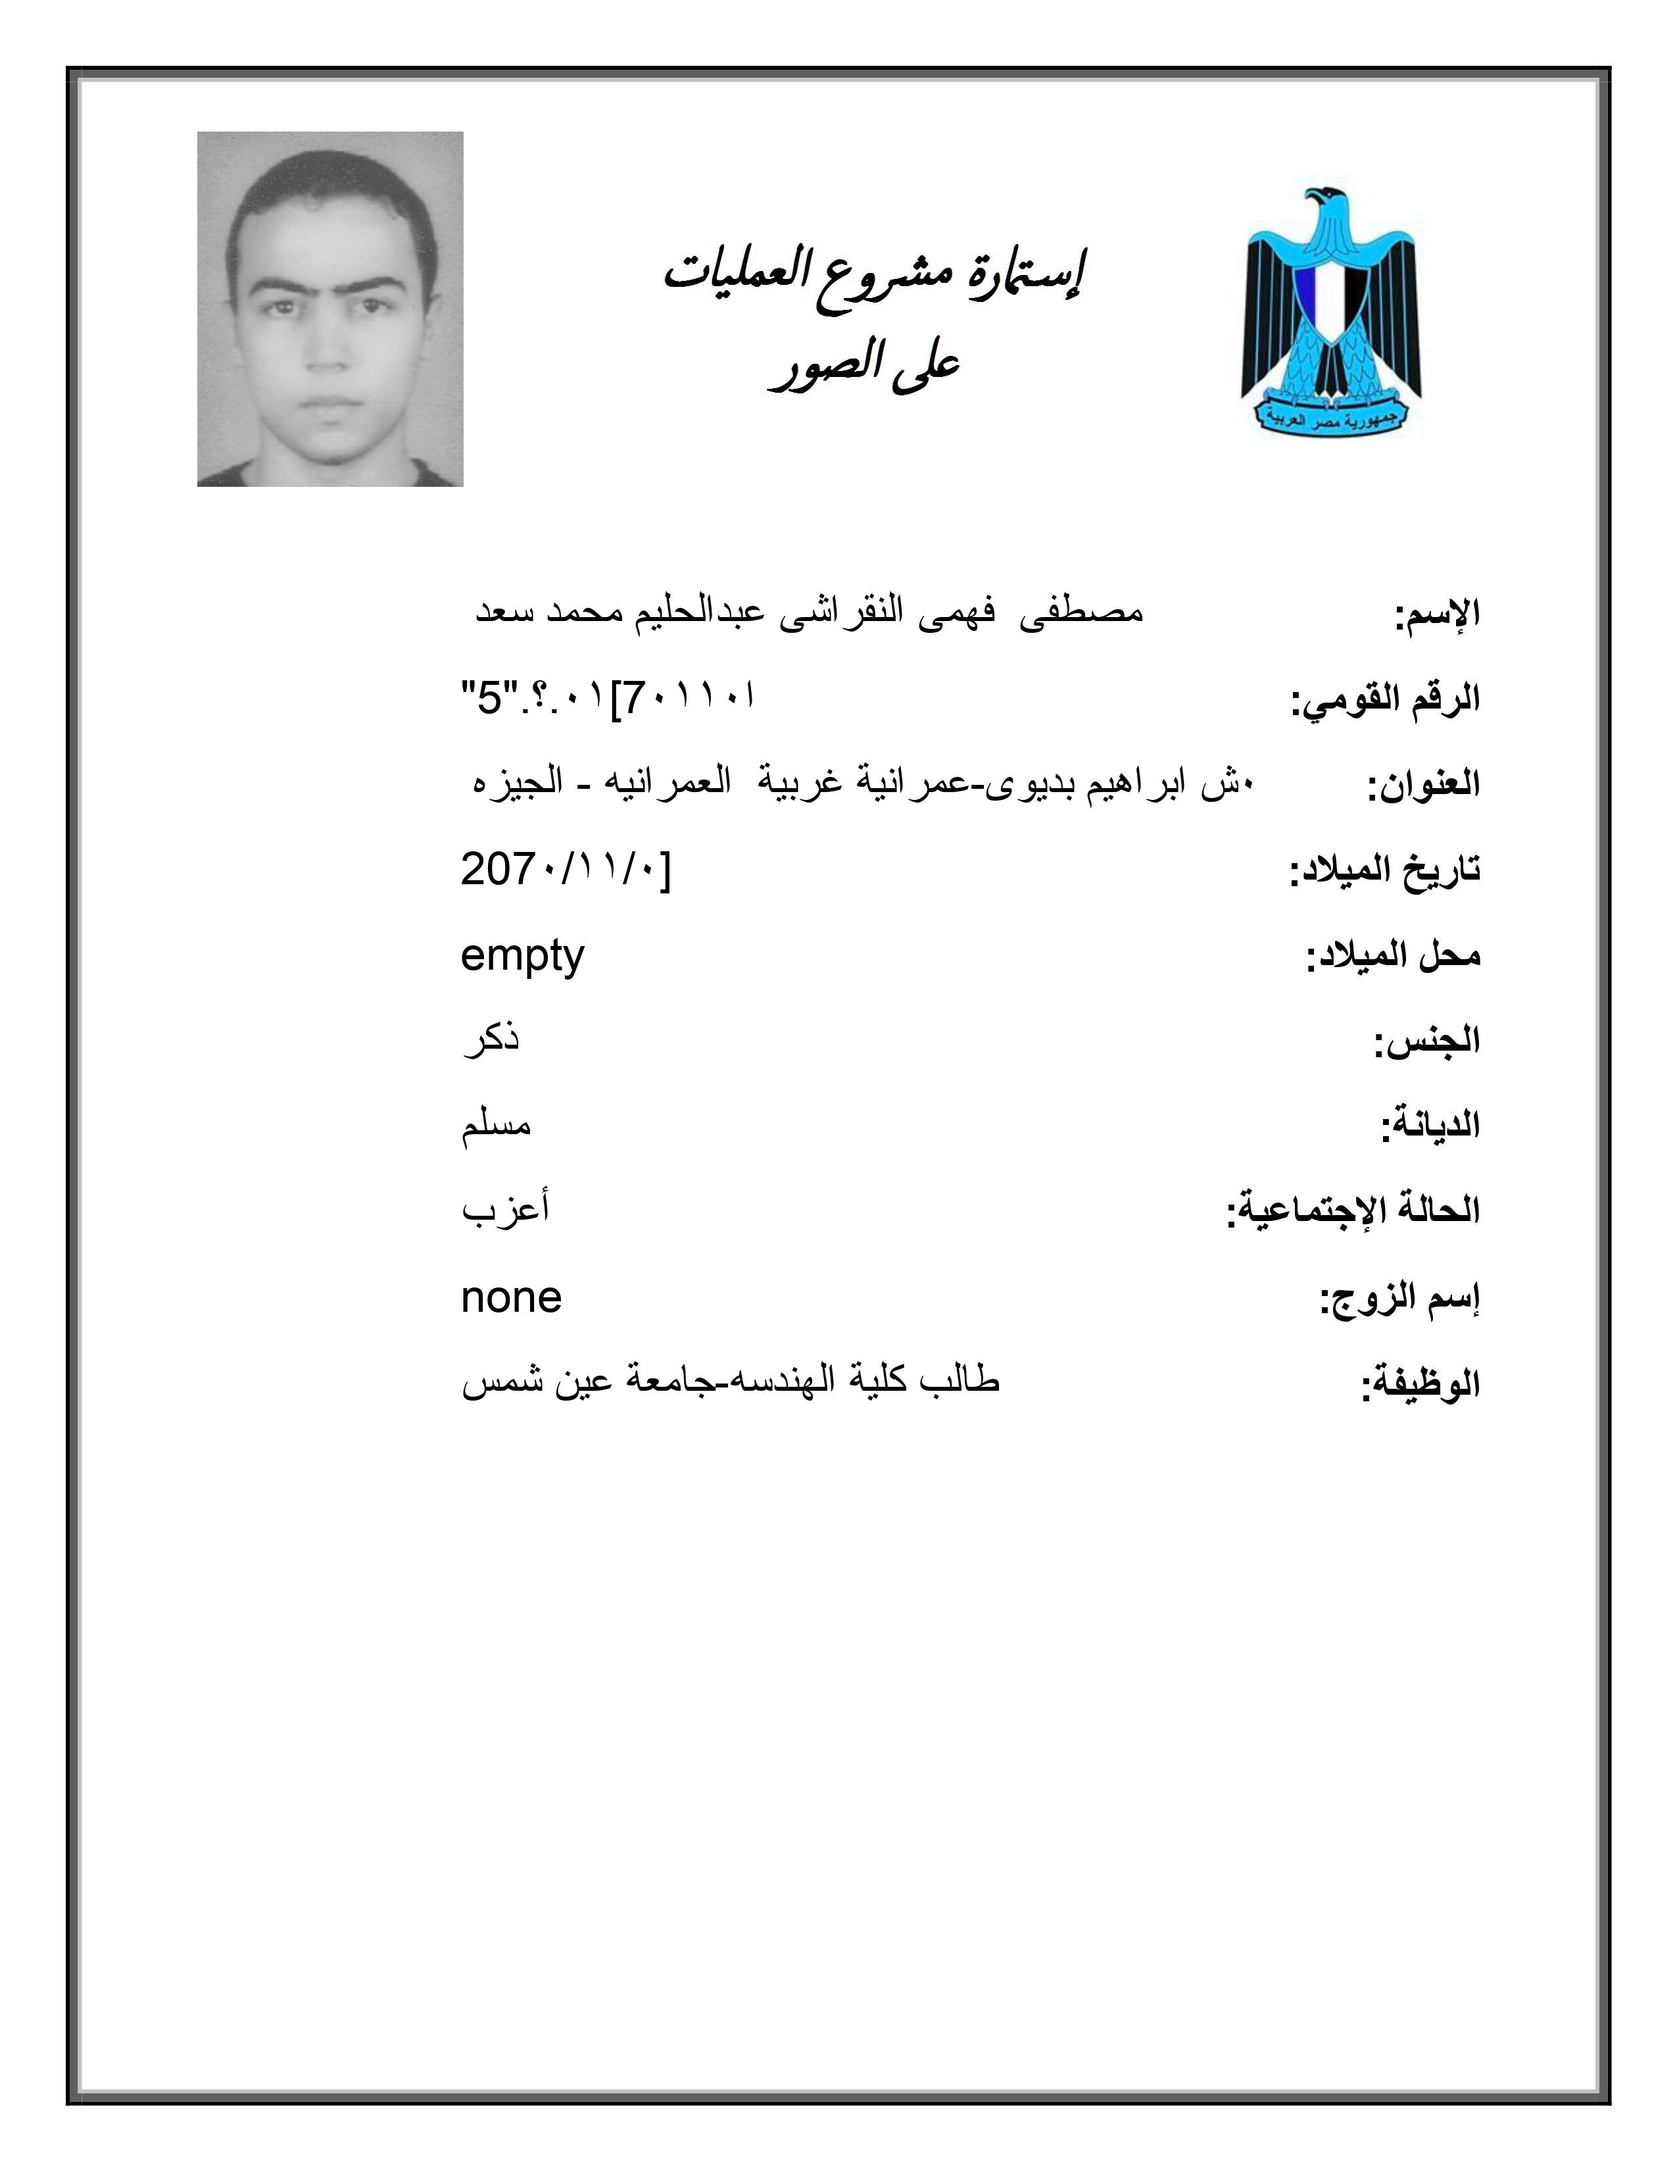
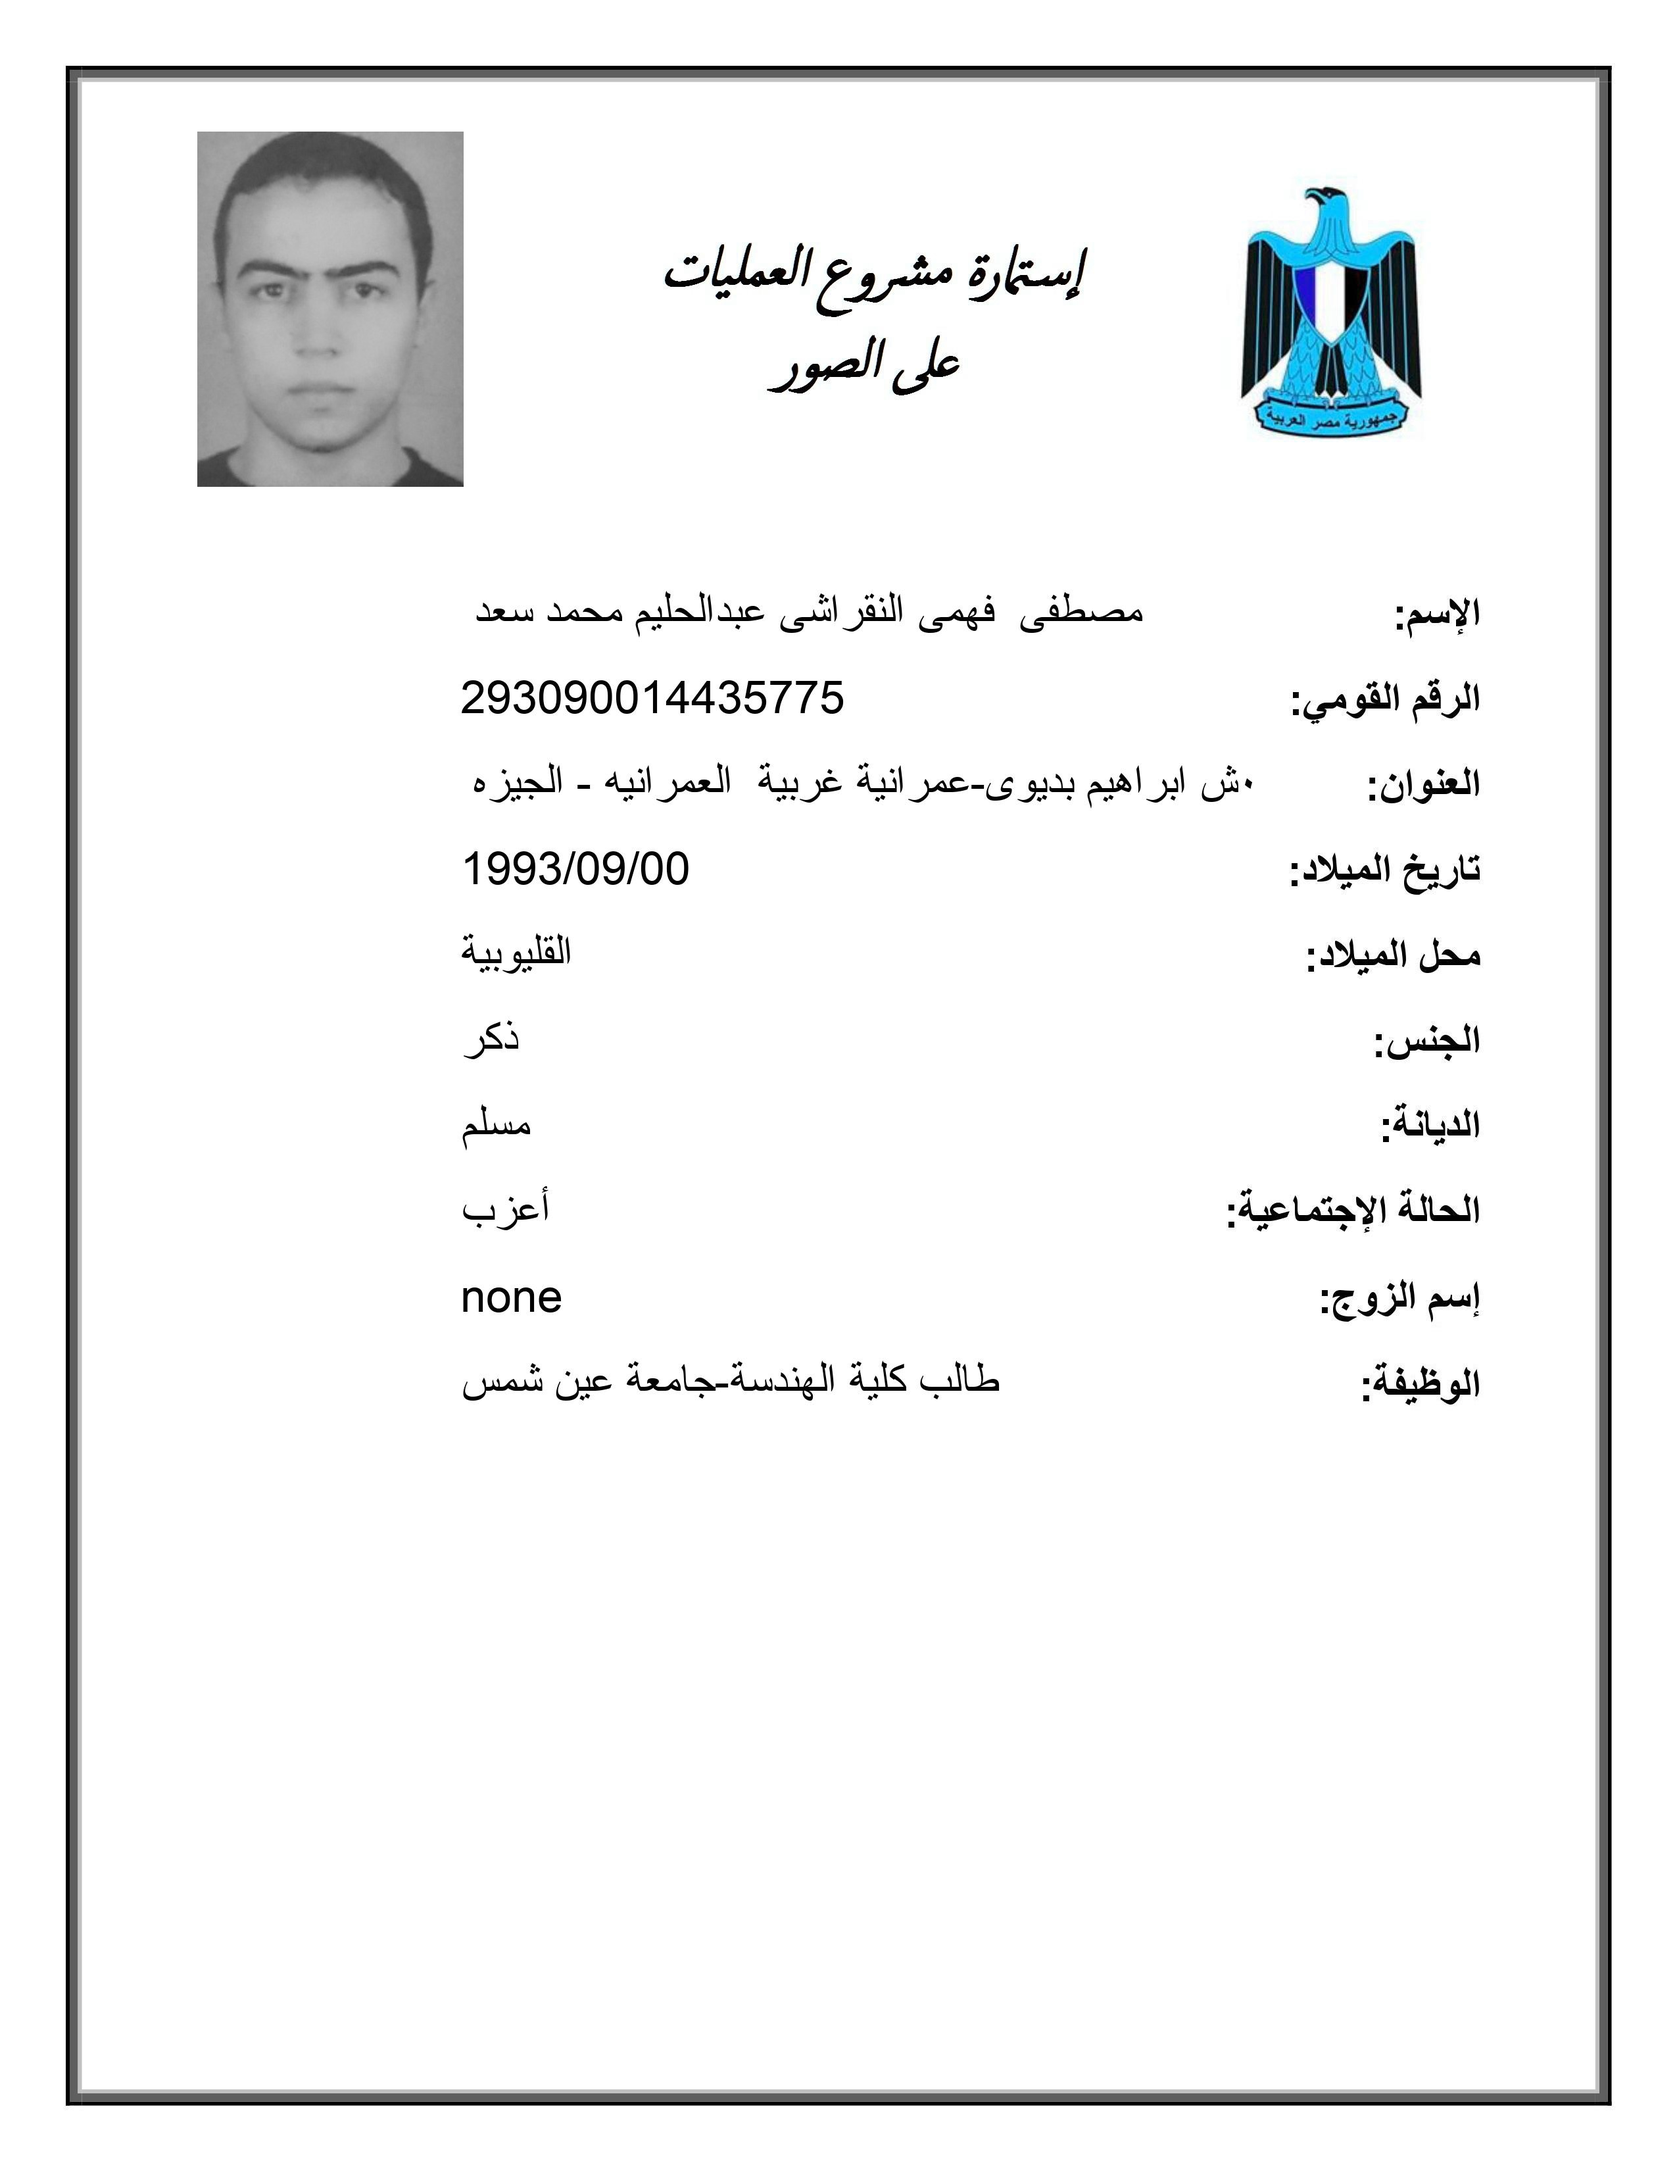
update1

Changed region(s): [[0.1239, 0.0624, 0.2788, 0.2497], [0.2788, 0.3745, 0.4027, 0.4682], [0.2788, 0.3121, 0.4957, 0.3433]]

diff --git a/integrate.py b/integrate.py
@@ -1,11 +1,11 @@
 from PIL import Image
 import cv2
-import pob
 from pytesseract import image_to_string
 import numpy as np
+import pob
 pic =np.zeros((300,225))
 name,add,IDNumber,BDate = '','','',''
-job,job2,gender,religion,a3zb,husband = '','','','','','',''
+job,job2,gender,religion,a3zb,husband,govern = '','','','','','',''
 #Reading the front side of the ID card
 def front_read(front_src):
 	
@@ -27,7 +27,7 @@ def front_read(front_src):
 	# Reading the splitted images
 	name=image_to_string(Name,lang="ara")
 	add=image_to_string(address,lang="ara")
-	IDNumber=image_to_string(ID,lang="eng")
+	IDNumber=image_to_string(ID,lang="hin")
 	IDNumber= ''.join(IDNumber.split())
 	
 	#Calculate the birth date
@@ -41,17 +41,20 @@ def front_read(front_src):
 	#Getting the governorate.
 	govern = pob.placeOfBirth(IDNumber)
 
+
 # split image
 def crop(dim1,dim2,dim3,dim4,name,img_binary,text_all):
 	area=(dim1,dim2,dim3,dim4)
 	cropped_img=img_binary.crop(area)
 	text=image_to_string(cropped_img,lang='ara')
+	cropped_img.show()
 	if name=='religion':
 		
 		if 'مسلم' in text_all:
 			text='مسلم'
 		elif 'مسيحي' in text_all:
-			
+			text='مسيحي'
+		elif 'مسيحى' in text_all:
 			text='مسيحي'
 		elif 'مسلمة' in text_all:
 			text='مسلمة'
@@ -83,18 +86,17 @@ def back_read(source_image):
 	
 	img=Image.open(source_image) #1005 630
 	im_gray = cv2.imread(source_image, cv2.IMREAD_GRAYSCALE)
-	ret,thresh_img = cv2.threshold(im_gray,130,255,cv2.THRESH_BINARY)
+	ret,thresh_img = cv2.threshold(im_gray,145,255,cv2.THRESH_BINARY)
 	kernel = np.ones((2,2),np.uint8)
 	cv2.imwrite('threshold.jpg',thresh_img)
 	img_binary=Image.open('threshold.jpg')
 	text_all=image_to_string(img_binary,lang='ara')
-	
+	print(text_all)
 	global job,job2,gender,religion,a3zb,husband
 
 	job = crop(230,70,820,140,'job',img_binary,text_all)
 	# job2 represents the place of work
 	job2 = crop(230,125,820,190,'job2',img_binary,text_all)
-
 	gender = crop(700,180,820,260,'gender',img_binary,text_all)
 
 	religion = crop(480,180,760,260,'religion',img_binary,text_all)
@@ -102,5 +104,3 @@ def back_read(source_image):
 	a3zb = crop(200,180,570,260,'a3zb',img_binary,text_all)
 	# husband name in case of women
 	husband = crop(200,225,820,290,'husband',img_binary,text_all)
-
-	

diff --git a/main.py b/main.py
@@ -7,6 +7,7 @@ from PyQt5.QtCore import *
 from PyQt5.QtGui import *
 import form
 import Scanner
+import cv2
 #from PyQt5.QtWidgets import QApplication, QMainWindow, QMenu, QVBoxLayout, QSizePolicy, QMessageBox, QWidget, \
    # QPushButton, QCheckBox, QLabel, QLineEdit, QComboBox
 #from PyQt5.QtGui import QIcon
@@ -39,8 +40,6 @@ class MainApp(QMainWindow, FORM_CLASS):
         Scanner.scan(front_addr,"front")
         #front_addr = str(front_addr)[2:str(front_addr).find(',')-1]
         pixmap = QPixmap("temp_front.jpg")
-        
-        print(type(pixmap))
         self.label_imgf.setPixmap(pixmap)
         self.label_imgf.setScaledContents(True)
         
@@ -53,7 +52,7 @@ class MainApp(QMainWindow, FORM_CLASS):
         Scanner.scan(back_addr,"back")
         #back_addr = str(back_addr)[2:str(back_addr).find(',')-1]
         pixmap = QPixmap("temp_back.jpg")
-
+        
         self.label_imgb.setPixmap(pixmap)
         self.label_imgb.setScaledContents(True)
 
@@ -67,7 +66,7 @@ class MainApp(QMainWindow, FORM_CLASS):
         if front_addr=='' or back_addr=='':
             QMessageBox.about(self, "Couldn't generate", "Image is not inserted!")
         else:
-            form.form(front_addr,back_addr)
+            form.form("temp_front.jpg","temp_back.jpg")
             print("done")
         
    

diff --git a/form.py b/form.py
@@ -24,8 +24,6 @@ def remove_newline(txt):
     return res
 def form(front_path,back_path):
     image = Image.open("empty_form.jpg")
-    ##front_path="front3.png"
-    ##back_path="back1.jpg"
     integrate.front_read(front_path)
     integrate.back_read(back_path)
     name=remove_newline(integrate.name)
@@ -36,7 +34,7 @@ def form(front_path,back_path):
     gender=integrate.gender
     religion=integrate.religion
     social_status=integrate.a3zb
-    husband_name="none"#integrate.husband
+    husband_name=integrate.husband
     job=integrate.job+" "+integrate.job2
 
     font=70

diff --git a/front.py b/front.py
@@ -15,7 +15,8 @@ ID = im_bw[500:560,400:1000]
 
 name=image_to_string(Name,lang="ara")
 add=image_to_string(address,lang="ara")
-IDNumber=image_to_string(ID,lang="eng")
+IDNumber=image_to_string(ID,lang="hin")
+print(IDNumber)
 
 
 IDNumber= ''.join(IDNumber.split())

diff --git a/pob.py b/pob.py
@@ -85,4 +85,3 @@ def placeOfBirth(id):
     else:
         gov=out
     return gov
-
